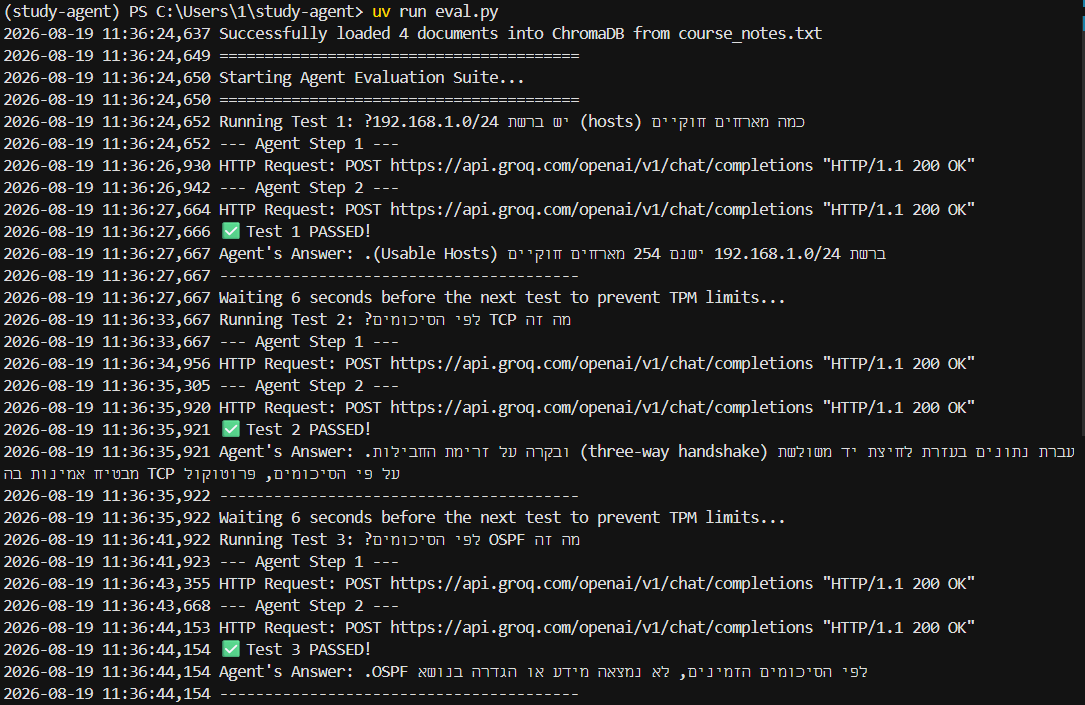
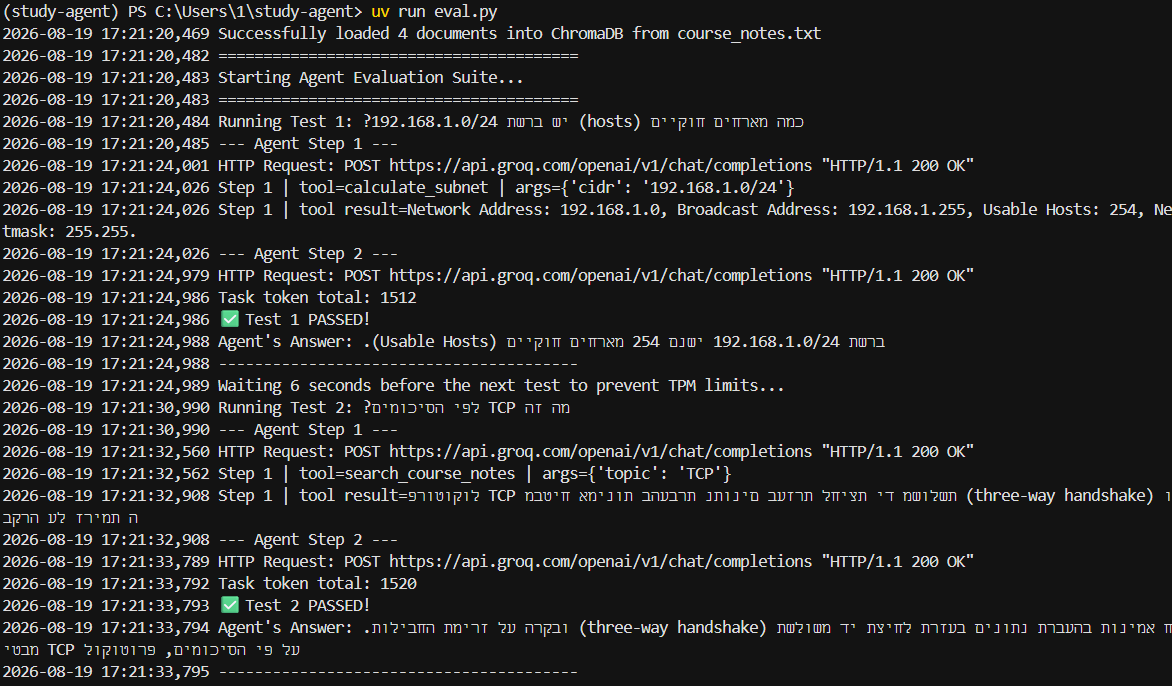
docs: update terminal screenshots to show detailed logs and 3-part layout

Changed region(s): [[0.0, 0.0, 1.0, 1.0], [0.8516, 0.6122, 0.882, 0.6429]]

diff --git a/README.md b/README.md
@@ -30,7 +30,11 @@ Here you can see the terminal output of our evaluation suite. The agent successf
 
 | | |
 | :---: | :---: |
-| ![Eval Terminal Part 1](./images/terminal-1.png) | ![Eval Terminal Part 2](./images/terminal-2.png) |
+| <img src="./images/terminal-1.png" alt="Eval Terminal Part 1" width="100%"> | <img src="./images/terminal-2.png" alt="Eval Terminal Part 2" width="100%"> |
+
+<div align="center">
+  <img src="./images/terminal-3.png" alt="Eval Terminal Part 3" width="49%">
+</div>
 
 ---
 
